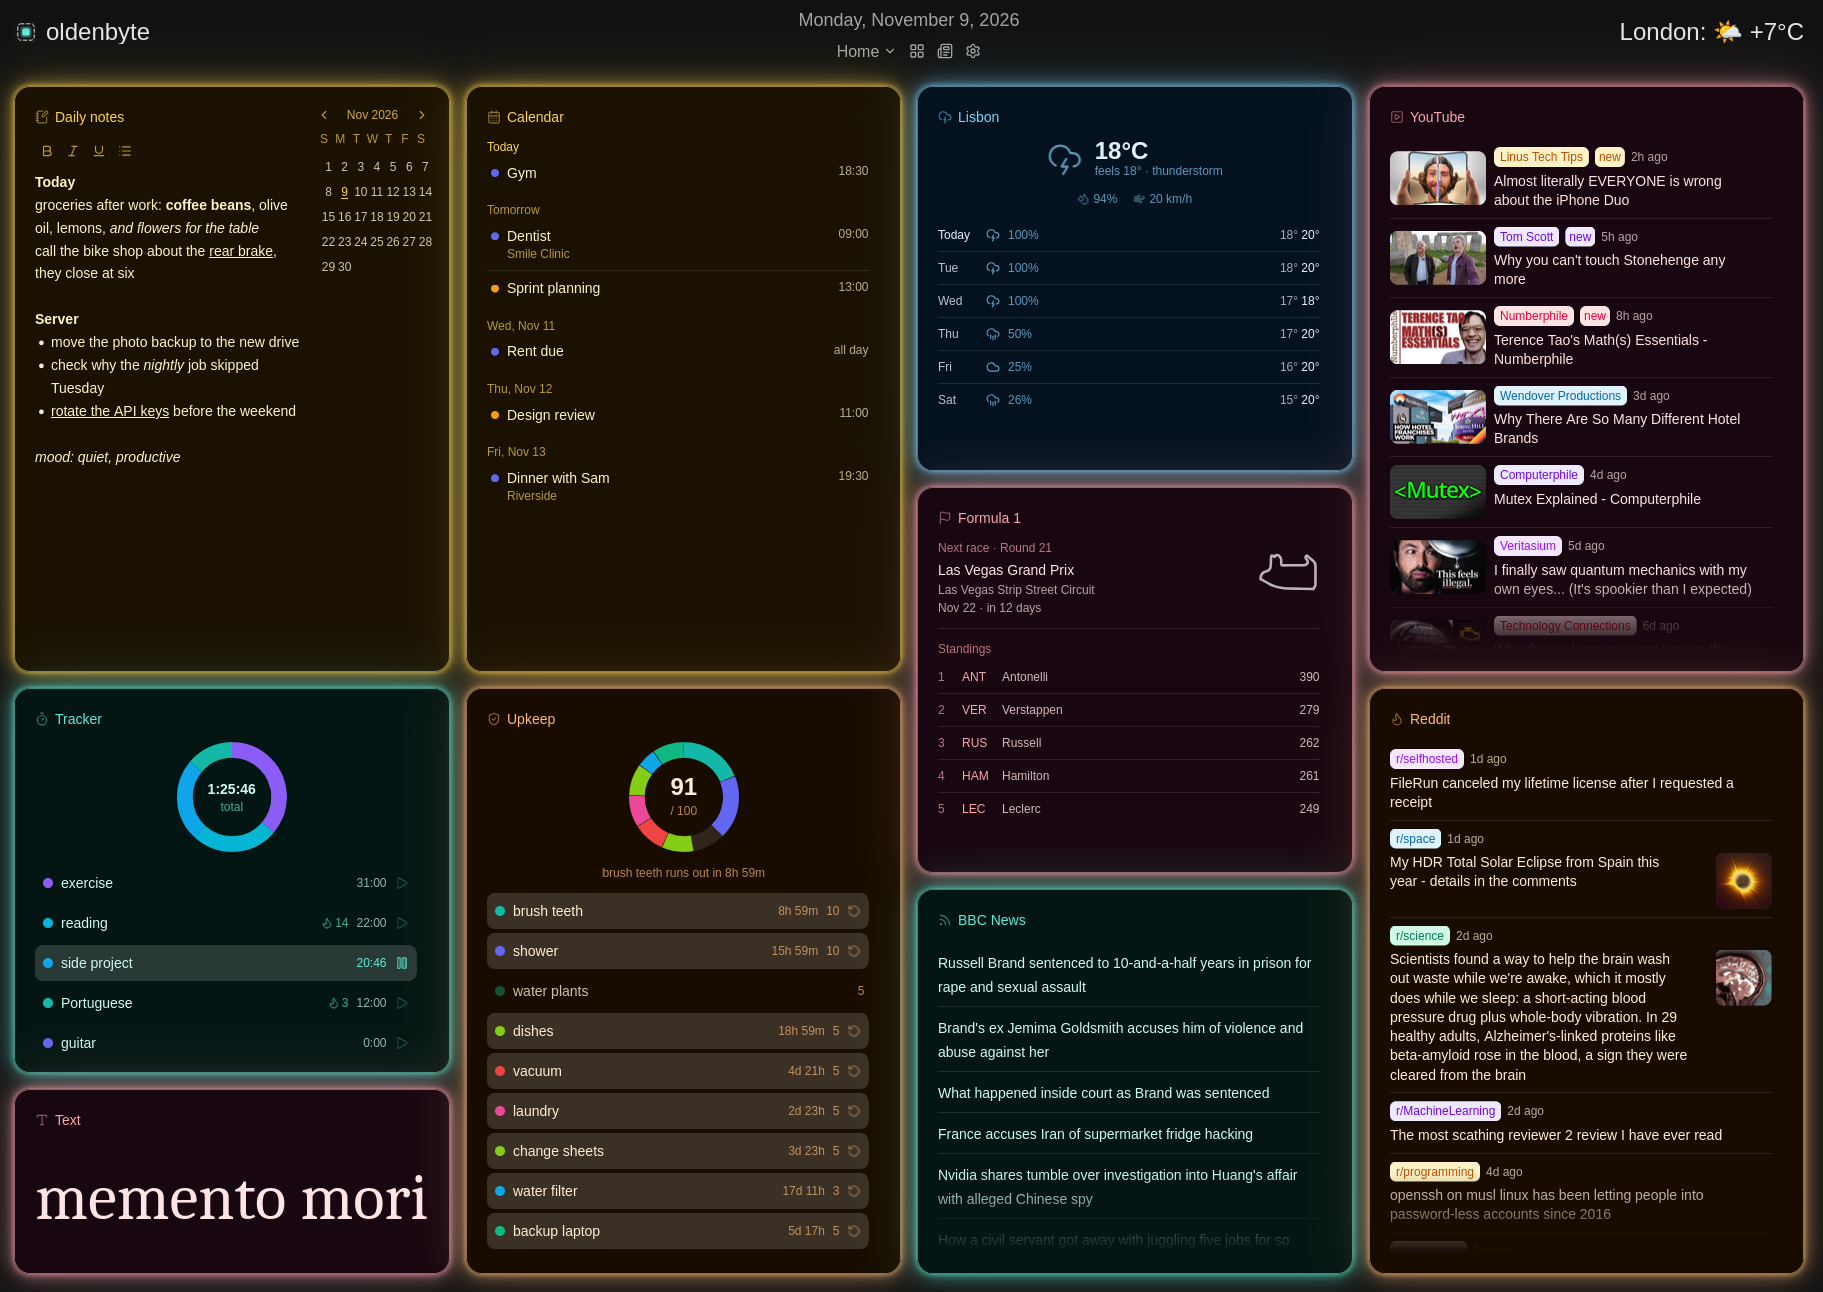
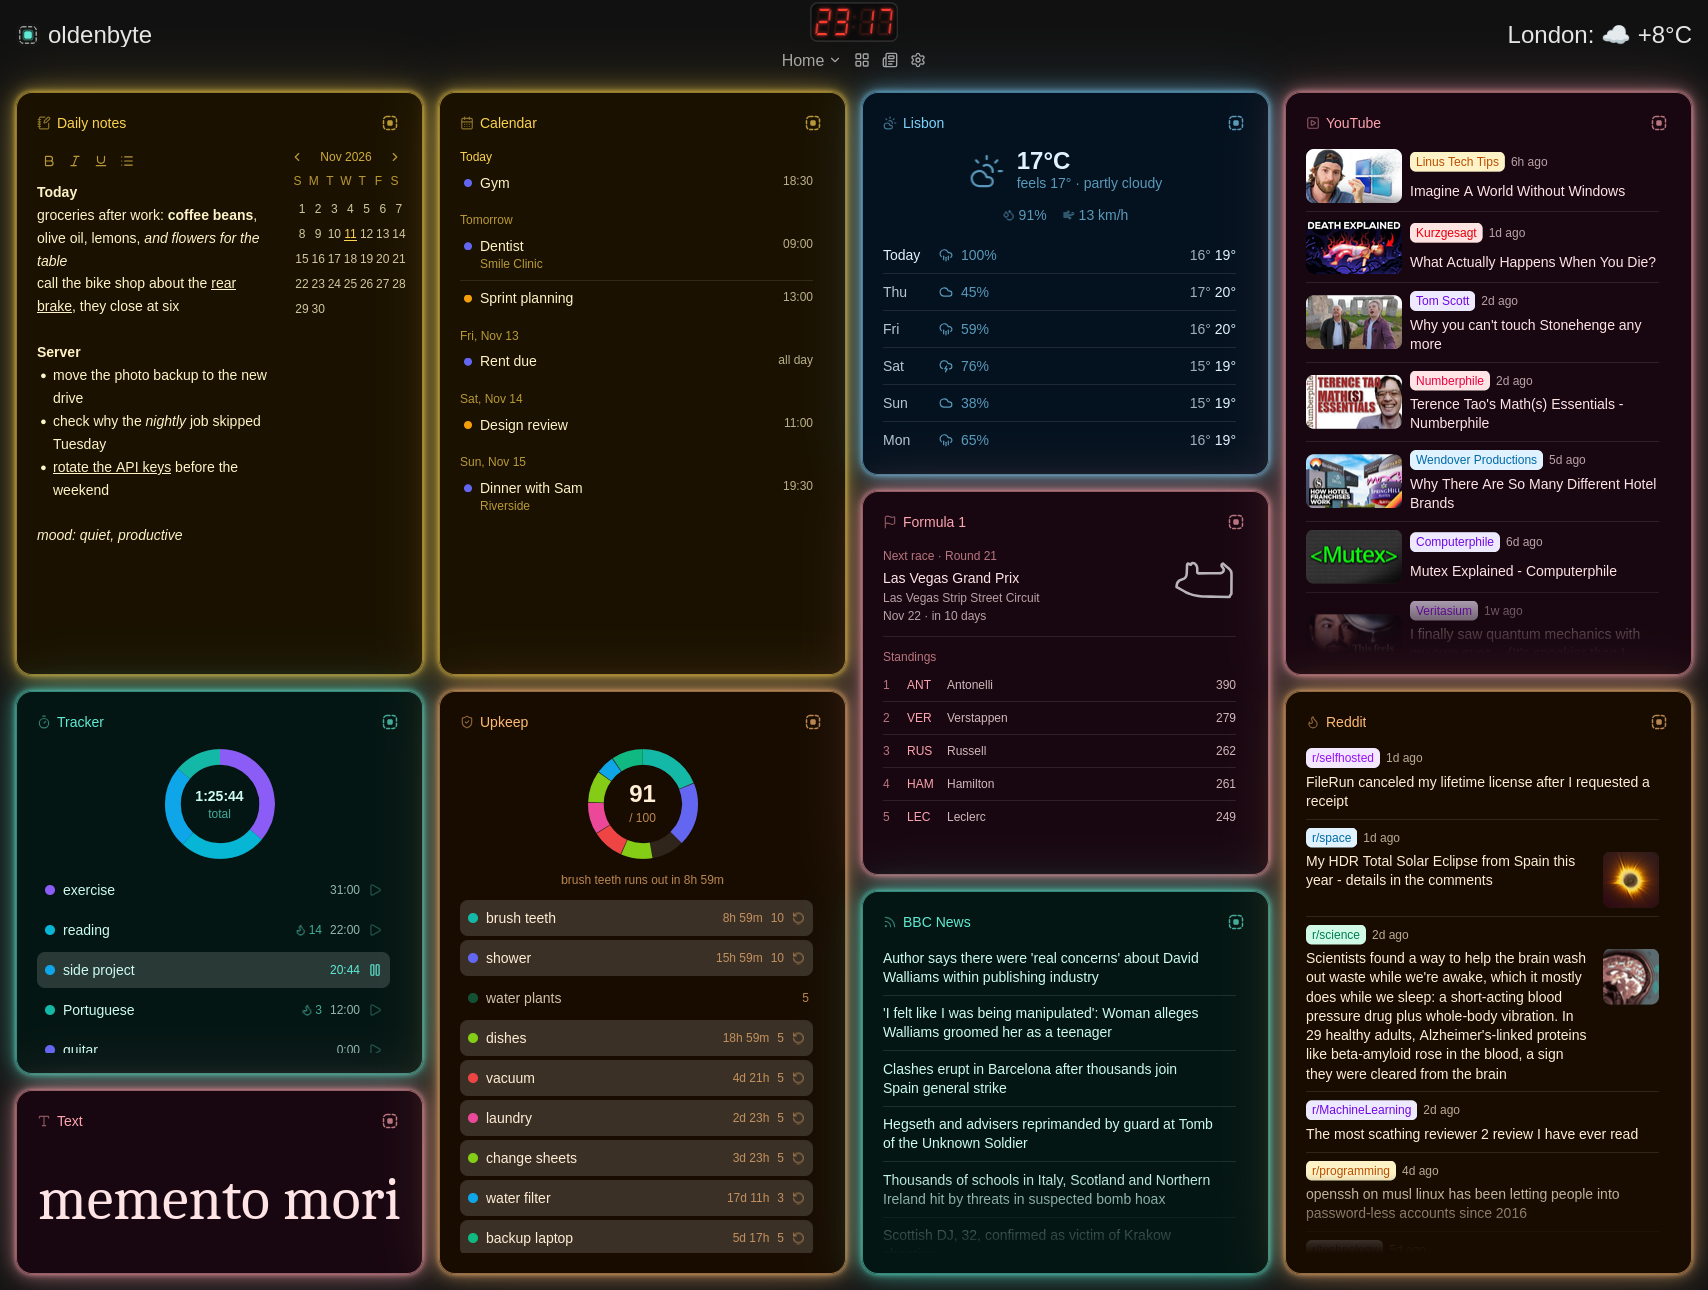
Shorter README with a new screenshot; MIT license

Changed region(s): [[0.0, 0.0, 0.993, 0.9922], [0.8999, 0.0, 0.993, 0.031], [0.0, 0.0, 0.0931, 0.031]]

diff --git a/README.md b/README.md
@@ -1,130 +1,61 @@
 # oldenbyte
 
-A personal dashboard built with Next.js. Widgets are draggable, resizable, and persist their state to a local SQLite database. Multiple named dashboards, each with its own layout and widgets, switchable from the top bar. In layout edit mode a widget can be grouped with another as tabs (drag a tab along the row to reorder them) or moved to another dashboard, taking its data with it; the edit shelf also exports and imports a backup and lists the leftover data of removed widgets for cleanup. Multiple accounts, each with its own dashboards. Responsive for mobile portrait view.
+A self-hosted personal dashboard. Drag and resize widgets, keep several dashboards, and let a local AI assistant read what is on them.
 
 ![screenshot](public/screenshot.png)
 
+## Highlights
+
+- **Many dashboards**, each with its own layout. Group widgets as tabs, move them between dashboards.
+- **Accounts**: the first visit creates the admin; others join with an invite code.
+- **Keyboard driven**: press Space, then a widget's number or an action key. See [docs/keyboard.md](docs/keyboard.md).
+- **AI assistant** for any OpenAI-compatible model (Ollama, LM Studio, llama.cpp, ...). It reads your widgets, Kiwix and Anytype on request, with characters that keep their own memory.
+- **Morning digest** at `/digest`: a newspaper-style briefing of your widgets.
+- **Your data**: Settings shows everything stored for your account. Backups export and import from edit mode.
+- Works on phones.
+
 ## Widgets
 
-- **Notepad** - a daily notepad with a built-in calendar to browse past entries; multiple instances each get a numbered tab when browsing a past date; renameable
-- **Reader** - read PDF or EPUB files from your own library folder (browse subfolders, upload, or fill it from outside), with full-screen view, saved position, and a Kindle-style progress bar
-- **Text** - display any static text or a live string fetched from a URL endpoint
-- **Feed** - subscribe to any RSS feed, configurable item count
-- **Reddit** - top posts from one or more subreddits, selectable time period and post count, newest first, with optional post images; each subreddit paints as it arrives
-- **YouTube** - latest videos from one or more channels, sorted newest-first with a "new" badge for uploads under 24 hours; Shorts and members-only videos can be filtered out per channel, list, thumbnail or gallery view, and archived videos can open on your own [TubeArchivist](https://www.tubearchivist.com/)
-- **Weather** - current conditions and a daily forecast for any place (search by name, °C/°F toggle), refreshed every 30 minutes
-- **F1** - next race details with countdown and current top 5 driver standings, updated hourly
-- **arXiv** - latest papers from a chosen research field (CS, Math, Physics, and more), with abstract view on click; falls back to the newest submissions when the daily feed is empty on weekends
-- **HF Daily** - trending AI papers curated by Hugging Face, sorted by upvotes
-- **Calendar** - upcoming events from any CalDAV server (Nextcloud, Radicale, ...); connect once, pick which calendars to show, and set the agenda window
-- **Schedule** - your fixed weekly routine on a seven-day time grid; click a slot to add, drag to move, entries can repeat across days and run past midnight
-- **Tracker** - time how long you spend on each activity with a one-tap stopwatch (only one runs at a time) and a donut chart of the day's breakdown; keeps a full per-day history with streaks, week-over-week stats, and editable past durations, and time that crosses midnight is credited to the day it happened in
-- **Rhythm** - tap to log habits (one-tap moments or timed sessions) and see how often and at what time of day you do them
-- **Upkeep** - a weighted checklist of essentials where each check lasts a set time; keep the score at 100
-- **Deficit** - enter a profile and goal weight, log calories day by day, and see the estimated weight, what is left to the goal, and the date you get there at your pace
-- **Bookmarks** - your favorite links as favicon tiles, tiles with names, rows, or a names-only list
-- **Typing** - a Monkeytype-style typing trainer with words, time, drill and metronome modes; it learns your weak keys and drills them, and counts wpm, raw, accuracy and characters the way Monkeytype does
-- **Chess** - play an ongoing game against the Stockfish engine with an adjustable Elo difficulty; the game persists between visits
-- **TV** - watch live IPTV channels (for example an [ErsatzTV](https://ersatztv.org/) playlist), streamed through the server so a LAN http source works on an https dashboard
-- **Kiwix** - search an offline [Kiwix](https://kiwix.org/) library (Wikipedia, WikiHow, …) running on your network; enter the server URL, pick a book, and full-text search results link straight to the article
-- **Anytype** - browse and search your own [Anytype](https://anytype.io/) spaces; pair once with the local desktop app (a 4-digit code), pick a space, then search your objects with results that open straight in Anytype
-- **Chat** - chat with any OpenAI-compatible model (Ollama, LM Studio, llama.cpp, vLLM, OpenAI, …) by entering the API URL and model name; responses stream in real-time and the conversation persists. Highlights:
-  - **Dashboard lookup** toggle hands the model `read_widget` and `search_dashboard` tools so it reads your notes, feeds, and tracked time on demand ("what's new on arXiv?", "what did I note last Tuesday?"), with paging and keyword-find for long content; you choose per widget what it may read. A separate **calendar** toggle lets it list and create events through the Calendar widget's account
-  - **Kiwix lookup** toggle hands the model search tools for an offline [Kiwix](https://kiwix.org/) library (agentic RAG) so it can look facts up mid-conversation and cite what it read
-  - **Anytype lookup** toggle does the same for your own [Anytype](https://anytype.io/) notes - it searches, reads (with `find`/page navigation for long notes), and can map-reduce **summarize** a whole journal too big to fit in context, while honouring each note's dates and metadata
-  - **Characters** - create personas, each with its own system prompt and a private, *scoped* long-term memory: give one a focus (e.g. an education coach) and it auto-remembers what you tell it that fits (your studies) while ignoring the rest (your trip)
-  - **Model control** - for Ollama/LM Studio, a status pill shows whether the model is loaded and lets you set how long it lingers in VRAM, pin it, or unload it on demand
-  - Regenerate a reply from any of your messages, edit your past messages to rewind, and an auto-growing composer for multi-line input
+| | |
+|---|---|
+| **Notes** | Notepad (daily, with a calendar), Text, Bookmarks |
+| **Reading** | Feed (RSS, with favorites), Reddit, YouTube (with TubeArchivist), arXiv, HF Daily, Reader (PDF and EPUB), Kiwix, Anytype |
+| **Time** | Calendar (CalDAV), Schedule, Tracker, Rhythm, Upkeep |
+| **Other** | Weather, F1, Deficit, Typing, Chess (Stockfish), TV (IPTV), Assistant |
 
-## Community widget bank
+New widgets can also be single JSON files in `widget-bank/`, no React needed. See [docs/widget-bank.md](docs/widget-bank.md).
 
-Widgets can also be defined as single JSON files in `widget-bank/`: declare a URL to fetch and map fields onto a small set of themed primitives (lists, stat rows, sparklines, ...), no React required. Valid definitions appear in the edit-mode picker under **Community**; invalid ones are skipped with reported errors. See [docs/widget-bank.md](docs/widget-bank.md).
+Each widget is documented in [docs/widgets/](docs/widgets/).
 
-## Morning digest
+## Run it
 
-<img src="public/digest.gif" width="400" />
-
-`/digest` is a separate page that reads today's cached widget data (any widget can be left out from the sections row of its model panel) and generates a newspaper-style AI briefing using any OpenAI-compatible model - a local one (Ollama, LM Studio, llama.cpp) or a hosted provider. Set the endpoint URL, model, and optional API key via the **model** control in the masthead (stored in `localStorage`). Each widget section gets its own API call, running in parallel. A streaming mode toggle streams each section's text in real-time as it's generated. Accessible from the main dashboard via the newspaper icon in the top bar.
-
-## Top bar
-
-The left and right text fields are editable and can display either a static string or a live value fetched from any URL that returns plain text (for example a weather or IP address endpoint). Each field can carry an icon before its text: an emoji, an image URL, or the oldenbyte mark with one click. The center shows a configurable date or clock with the action buttons (dashboard switcher, digest, layout edit, settings) grouped below it. On phones the two text fields share the first row and the date with its buttons sits on a row below. The switcher creates, renames, and deletes dashboards. The settings panel holds your account (username, log out, change password, and a link to the admin page for admins), the theme (light, dark or grey) and whether cards glow in it, the timezone, **Preload dashboards** (mount every dashboard in the background at page load so switching is instant; otherwise each mounts on first visit and then stays), and demo mode (preview the first-run dashboards with sample data; nothing you change there is saved, and Escape or a page reload leaves it, so screenshots show nothing but the dashboard). Dark mode preference is persisted to the database, and pressing **Shift+D** toggles it from anywhere (except while typing in a field).
-
-The dashboard is keyboard-driven too, and works alongside Vimium: press **Space**, then a widget's number to focus it (a tab group then takes a tab number or q w e r t), or a key for an action: **e** settings, **r** refresh, **[** and **]** switch dashboards, **n** new dashboard, **l** edit layout, **?** the cheat sheet. Settings > Keyboard turns this off and rebinds every key. See [docs/keyboard.md](docs/keyboard.md).
-
-## Accounts
-
-The first visit creates the admin account. Further accounts join with an invite code: the admin turns registration on and sets the code on `/admin`, where they can also reset passwords, delete accounts, and set how long the server caches feeds. Every account has its own dashboards and files. Only admin accounts can point integrations (Kiwix, CalDAV, Anytype, TubeArchivist, TV, local models) at addresses on the LAN or tailnet; other accounts are limited to public addresses. See [docs/auth.md](docs/auth.md).
-
-Feeds (Feed, Reddit, YouTube, arXiv, HF Daily) are cached on the server for that admin-set time, so a page load does not hit every source; each feed widget has a refresh button that fetches fresh data.
-
-## Stack
-
-- **Next.js 16** with App Router and TypeScript
-- **Tailwind CSS v4** for styling
-- **Prisma + SQLite** for persistent storage
-- **react-grid-layout** for drag and drop widget management
-- **react-pdf** and **epubjs** for document rendering
-- **chess.js** and **react-chessboard** with **Stockfish** (WebAssembly) for the chess widget
-- **hls.js** and **mpegts.js** for the TV widget
-- **Vitest** and **ESLint** for tests and lint
-
-## Development
+With Docker:
 
 ```bash
-npm install
-npm run dev
-```
-
-The app runs at `http://localhost:3000`. A local SQLite database is created automatically on first run (`prisma/dev.db`, or wherever `DATABASE_URL` points), and the first visit asks you to create the admin account.
-
-Checks (CI runs all three before building an image):
-
-```bash
-npm run typecheck   # tsc --noEmit
-npm run lint        # eslint
-npm test            # vitest unit tests in tests/
-```
-
-Docs for the architecture, API, storage keys and each widget live in [docs/](docs/).
-
-## Self-hosting with Docker
-
-**1. Create a `.env` file** next to `docker-compose.yml`:
-
-```
-SESSION_SECRET=<random hex string>
-```
-
-Generate a secret with:
-
-```bash
-openssl rand -hex 32
-```
-
-**2. Initialize the data directory:**
-
-```bash
-mkdir -p data
-touch data/db.sqlite
-chmod 666 data/db.sqlite
-```
-
-**3. Start the container:**
-
-```bash
+echo "SESSION_SECRET=$(openssl rand -hex 32)" > .env
+mkdir -p data && touch data/db.sqlite && chmod 666 data/db.sqlite
 docker compose up -d
 ```
 
-The app is exposed on port `3847`. Data (database, reader libraries and uploads) is persisted in `./data/` on the host. Open it and create the admin account.
+Open port `3847` and create the admin account. Data lives in `./data/`.
 
-Watchtower is included and polls for new image versions every 5 minutes, pulling and restarting the container automatically when a new build is pushed.
+For development:
+
+```bash
+npm install
+npm run dev        # http://localhost:3000
+npm run typecheck && npm run lint && npm test
+```
+
+## Stack
+
+Next.js 16, TypeScript, Tailwind CSS 4, Prisma with SQLite, react-grid-layout. Architecture, API, storage and deployment are in [docs/](docs/).
 
 ## Credits
 
-- F1 circuit outlines by [Jules Roy](https://github.com/julesr0y/f1-circuits-svg), licensed under [CC BY 4.0](https://creativecommons.org/licenses/by/4.0/)
-- Chess engine: [Stockfish](https://stockfishchess.org/) compiled to WebAssembly via [stockfish.js](https://github.com/nmrugg/stockfish.js), licensed under [GPL-3.0](https://www.gnu.org/licenses/gpl-3.0.html)
+- F1 circuit outlines by [Jules Roy](https://github.com/julesr0y/f1-circuits-svg), [CC BY 4.0](https://creativecommons.org/licenses/by/4.0/)
+- [Stockfish](https://stockfishchess.org/) via [stockfish.js](https://github.com/nmrugg/stockfish.js), [GPL-3.0](https://www.gnu.org/licenses/gpl-3.0.html)
 
-## Deployment
+## License
 
-Pushing to `main` triggers a GitHub Actions workflow that runs typecheck, lint and unit tests, then builds and pushes a Docker image to GHCR tagged `:latest` and `:<commit sha>`. Watchtower on the server picks up `:latest` automatically. See [docs/deployment.md](docs/deployment.md).
+[MIT](LICENSE)
